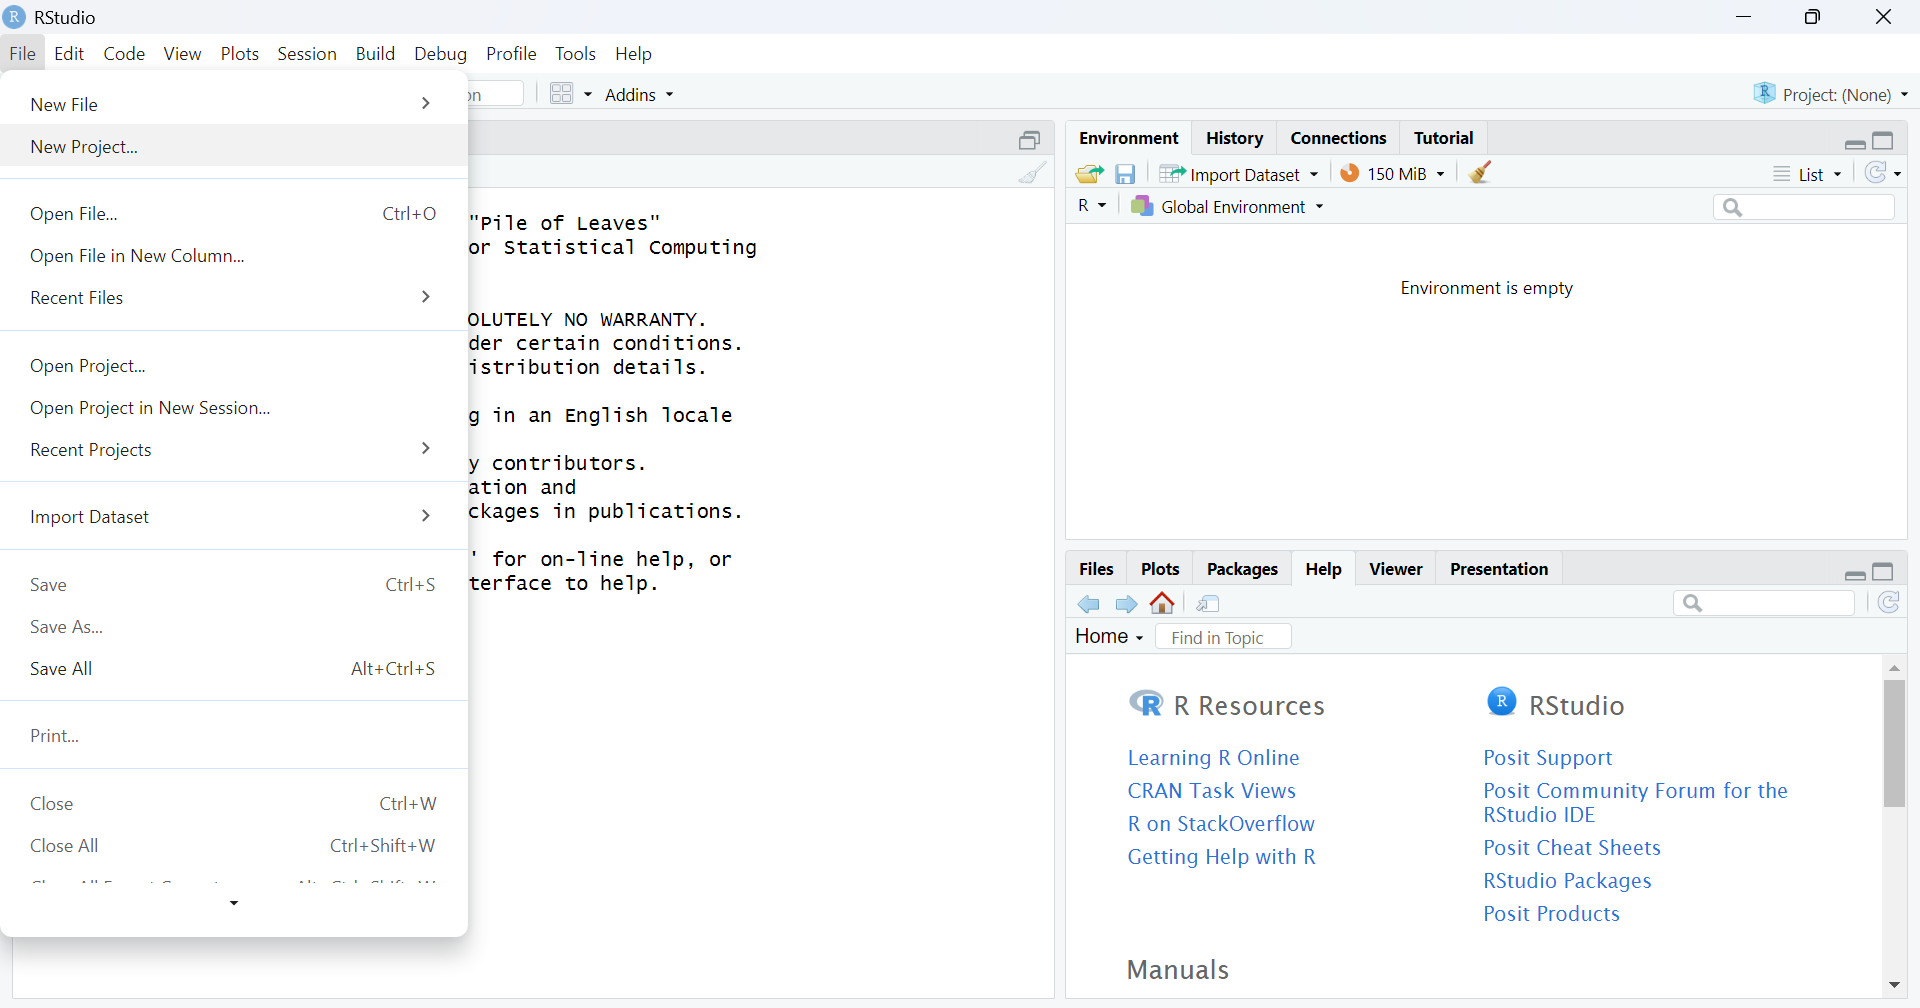
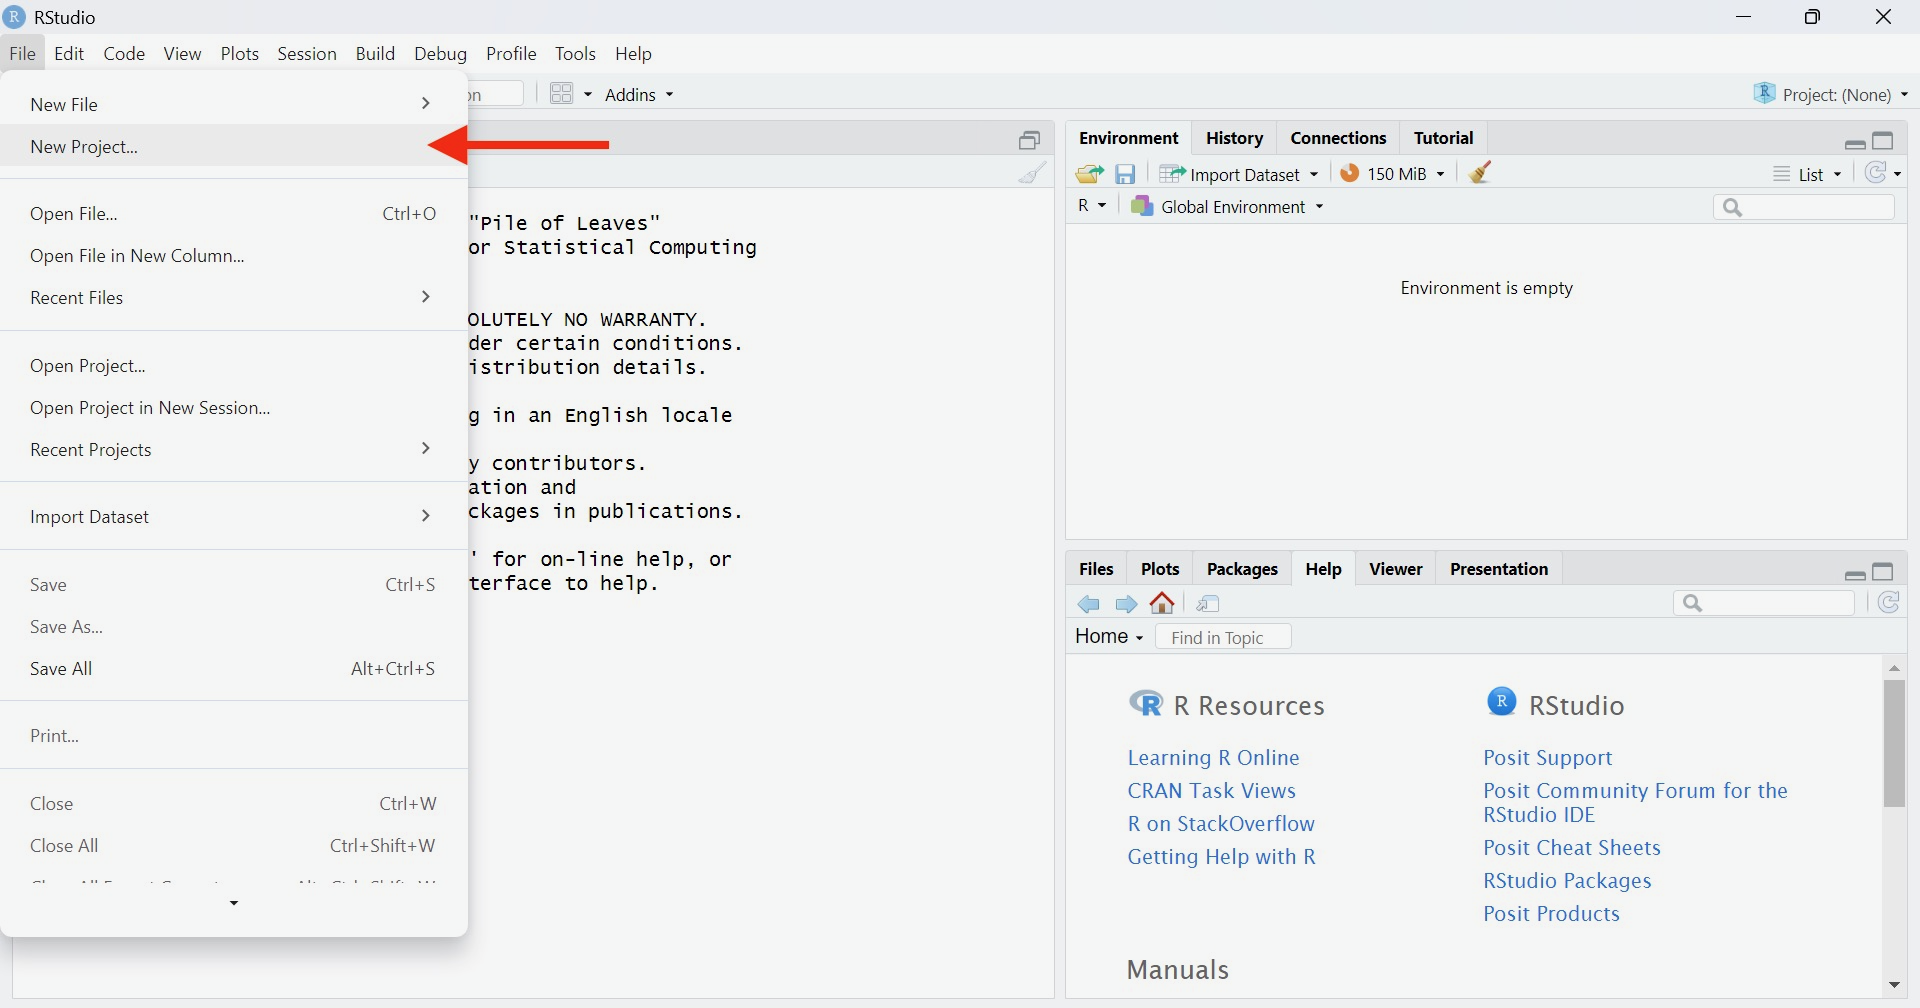
Made minor edits and edited a few screenshots to highlight points to users.

diff --git a/README.md b/README.md
@@ -250,6 +250,7 @@ Your command prompt typically shows the name of the directory you are located in
 in this case, you should see
 
 ```
+[yourNetID@ap2002 ~]$ cd tutorial-rstudio-to-chtc
 [yourNetID@ap2002 tutorial-rstudio-to-chtc]$
 ```
 
@@ -337,8 +338,8 @@ nano example.sub
 Your terminal will open a blank file into which you can type the contents of a file.
 You move the cursor in the file using the arrow keys.
 Keyboard shortcuts for other operations are listed at the bottom of the screen, 
-where the `^` represents the `Ctrl` key
-and the `M-` represents the `Alt` key.
+where the `^` represents the `Ctrl` (or `Control` on Mac) key
+and the `M-` represents the `Alt` (or `Option` on Mac) key.
 
 ![nano, empty file](./.images/nano-example_sub-empty.png)
 
@@ -557,7 +558,7 @@ nano htc-example.R
 ```
 
 Use the arrow keys on your keyboard to move the cursor down to where `station_list` is defined.
-Replace the multi-line definition with the following single-line definition:
+Replace the multi-line definition with the following single-line definition (`Ctrl+K` in nano deletes whole lines):
 
 ```R
 station_list <- commandArgs(trailingOnly = TRUE)
@@ -576,13 +577,16 @@ Here is the difference:
 
 This tells the script that `station_list` will be defined by the trailing arguments that are passed when the script is executed.
 
-Save and close the file.
+Save (`Ctrl+O`) and close the file (`Ctrl+X`).
 
 ![nano, showing the changed definition of station_list in the htc-example.R file](./.images/nano-htc-example_R-write-out.png)
 
 #### Explanation
 
-With this change to the R script, we can replicate the behavior of the original `example.R` script with the following command (don't actually run this!):
+With this change to the R script, we can replicate the behavior of the original `example.R` script with the following command:
+
+> [!WARNING]
+> Do not actually run the next command! Only for example purposes.
 
 ```bash
 htc-example.R madison milwaukee stevens_point
@@ -590,6 +594,9 @@ htc-example.R madison milwaukee stevens_point
 
 This is particularly useful if we want to change the list of stations to analyze. 
 Assuming you have the corresponding `.csv` files, the following command would analyze a different list of stations:
+
+> [!WARNING]
+> Do not actually run the next command! Only for example purposes.
 
 ```bash
 htc-example.R new_york chicago los_angeles
